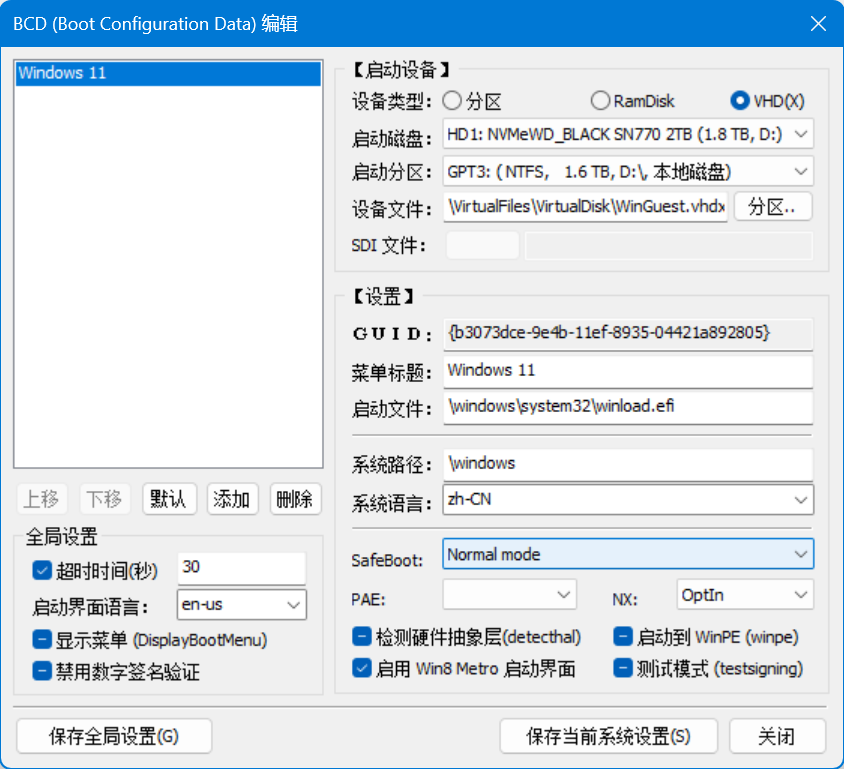
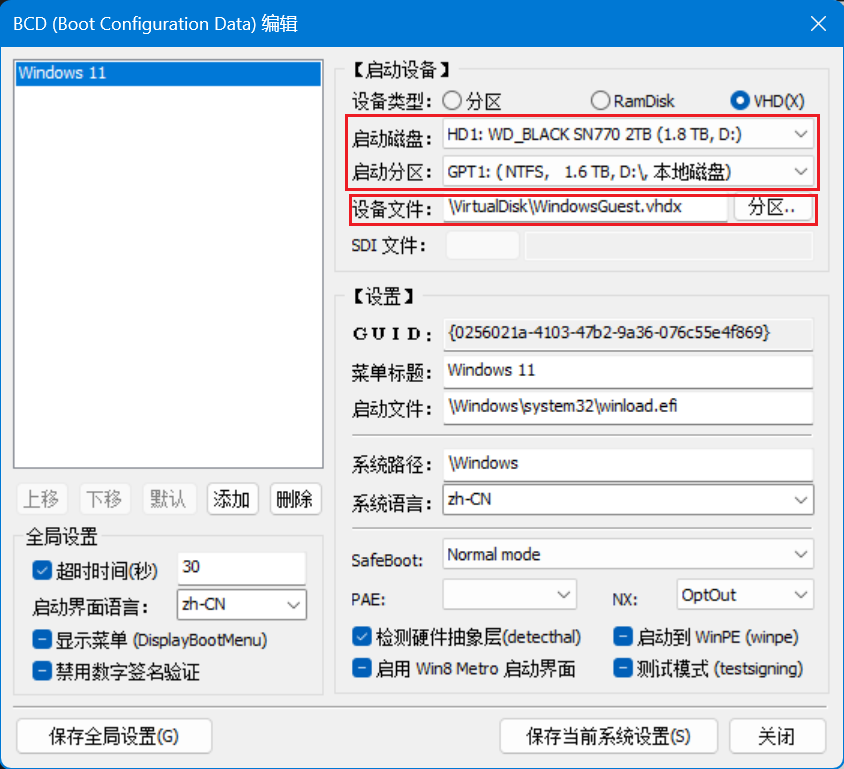
Update

diff --git a/docs/blog/posts/boot-to-vhd.md b/docs/blog/posts/boot-to-vhd.md
@@ -71,7 +71,7 @@ bcdboot v:\windows /s S: /f UEFI
 #### 启动到 VHDX 时，引导失败无法启动系统
 **可能是由于系统找不到磁盘驱动器**
 
-方案一：将 IRST 驱动程序或者 AHCI 驱动手动注入到 VHDX 磁盘中，根据电脑型号在官网找对应磁盘驱动程序，然后使用 Dism++ 注入驱动。
+方案一：将 IRST 驱动程序手动注入到 VHDX 磁盘中，根据电脑型号在官网找对应磁盘驱动程序，然后使用 Dism++ 注入驱动。
 
 方案二：在 BIOS 中关闭 Intel Volume Management Device (VMD) 技术
 > 注：关闭VMD技术将会导致您的电脑无法使用 RAID 磁盘阵列
@@ -79,19 +79,40 @@ bcdboot v:\windows /s S: /f UEFI
 
 ### 为双系统添加单独的 UEFI 启动项
 
-Windows 双系统启动时，会显示两个可选启动项，如果想启动时跳过选择步骤引导默认系统但保留双系统，可以单独为 VHDX 系统添加一个 UEFI 启动项
+Windows 双系统启动时，会显示两个可选启动项，此时引导配置位于同一个文件中，可以将 BCD 配置文件分离以单独引导
 
-这里使用 EasyUEFI 和 BOOTICE 编辑和修改启动项，也可以自行使用其他工具修改
+#### 添加启动项
+这里使用 BOOTICE 工具编辑启动项
 
-在第4步中，添加了将新系统添加为可选启动项后，首先使用 EasyUEFI 进入 EFI 系统分区资源管理器，将 Windows 启动项文件夹全部拷贝出来，命名为 WinGuest，使用 BOOTICE 编辑 WinGuest/Boot/BCD 文件，删除当前系统启动项，只保留 vhdx 启动项。
+以管理员权限打开终端
+```powershell
+# 在引导分区创建一个目录存放引导文件
+mkdir F:\EFI\WinGuest
+
+# 复制引导文件到该目录
+xcopy V:\Windows\Boot\EFI\* F:\EFI\WinGuest /H /E 
+```
+
+使用 BOOTICE 新建一个 BCD 文件保存到 WinGuest/BCD 并添加新启动项
+
+- 设备类型选择vhd
+- 启动磁盘和启动分区选择vhdx所在磁盘
+- 设备文件选择vhdx路径(**注意去掉盘符**)
+- 菜单标题可自定义
+
 ![edit-boot](../assets/boot-to-vhd-edit-boot.png)
 
-> 对于当前系统，依次打开 “系统配置”-“引导”选项，删除 vhdx 磁盘启动项即可。
-> ![sys-config](../assets/boot-to-vhd-sys-config.png)
 
-然后将 WinGuest 文件夹使用 EasyUEFI 上传 EFI 系统分区中，再打开"管理EFI启动项"菜单，添加一条新的启动项，选择 /EFI/WinGuest/Boot/bootmgfw.efi 作为引导文件即可。
+#### 添加 UEFI 引导项
+BOOTICE 添加一个 UEFI 引导项，文件选择 \EFI\WINGUEST\BOOTMGFW.EFI
+然后将 WinGuest 文件夹使用 EasyUEFI 上传 EFI 系统分区中，再打开"管理EFI启动项"菜单，添加一条新的启动项
 
-![efi-dir](../assets/boot-to-vhd-WinGuest-dir.png)
+- 启动磁盘选择引导分区所在磁盘
+- 启动分区选择引导分区
+- 引导文件选择 /EFI/WinGuest/Boot/bootmgfw.efi
 
 ![add-uifi](../assets/boot-to-vhd-WInGuest-UEFI.png)
 
+#### 移除当前系统的额外引导项
+搜索打开 “系统配置”-“引导”选项，删除 vhdx 磁盘启动项即可
+![sys-config](../assets/boot-to-vhd-sys-config.png)
